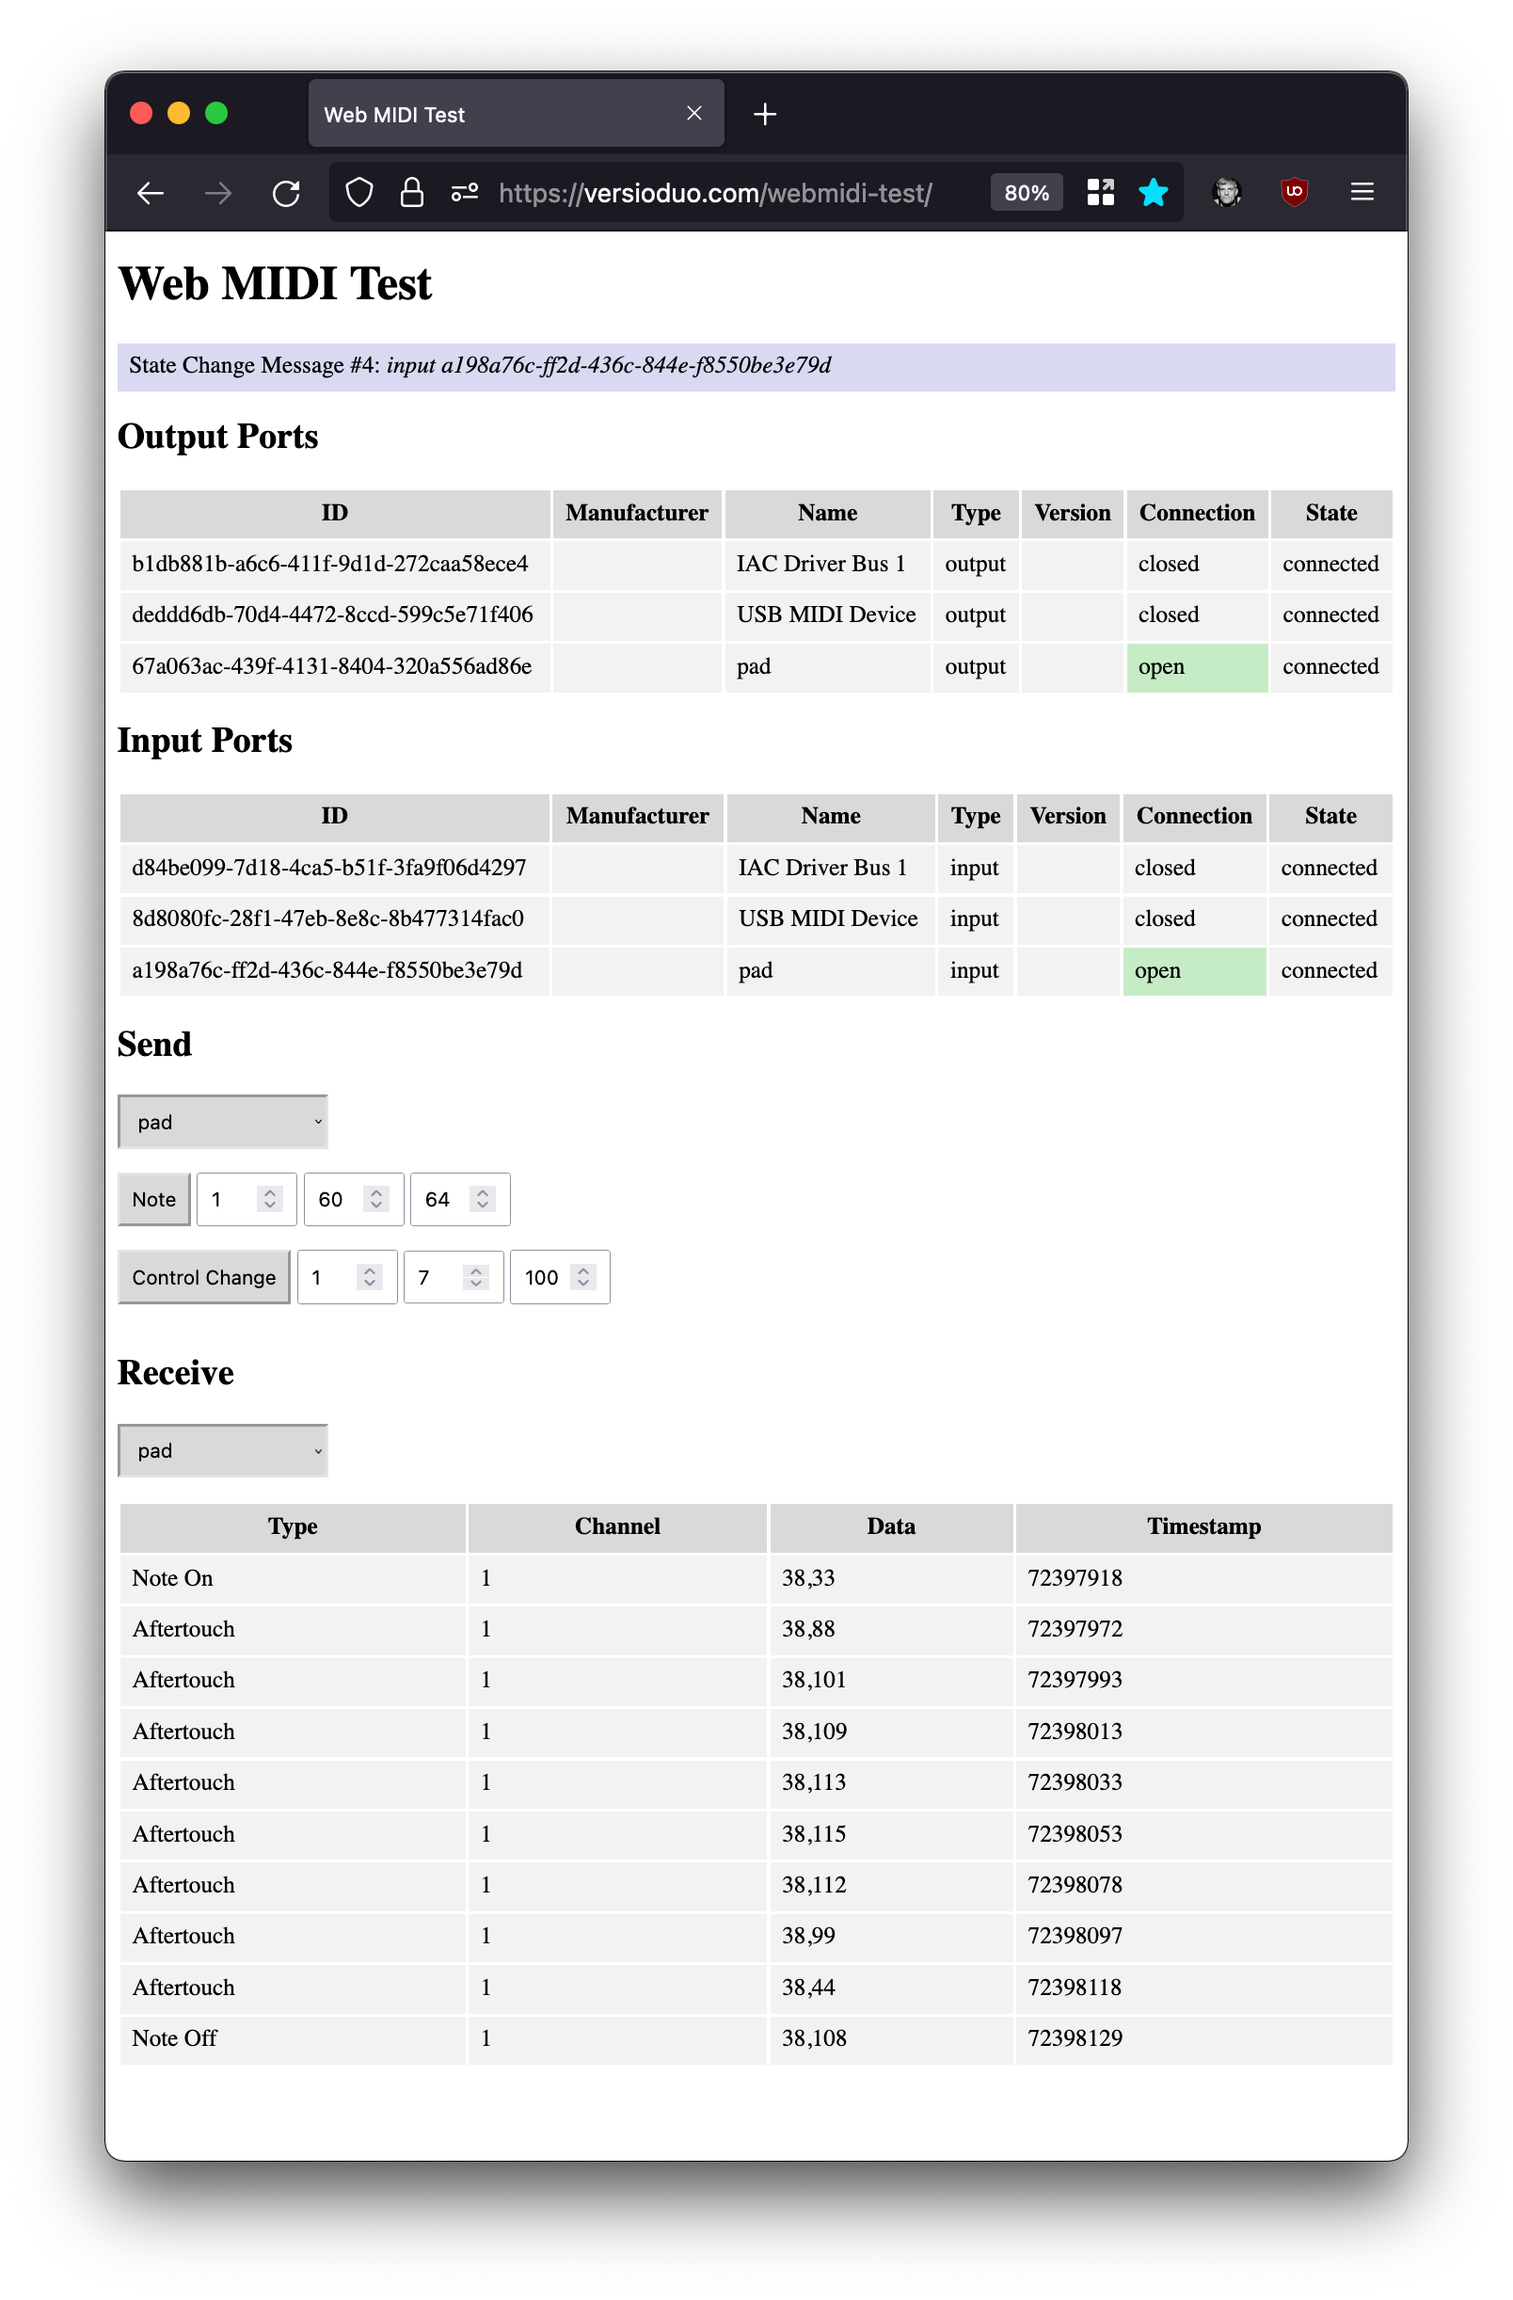
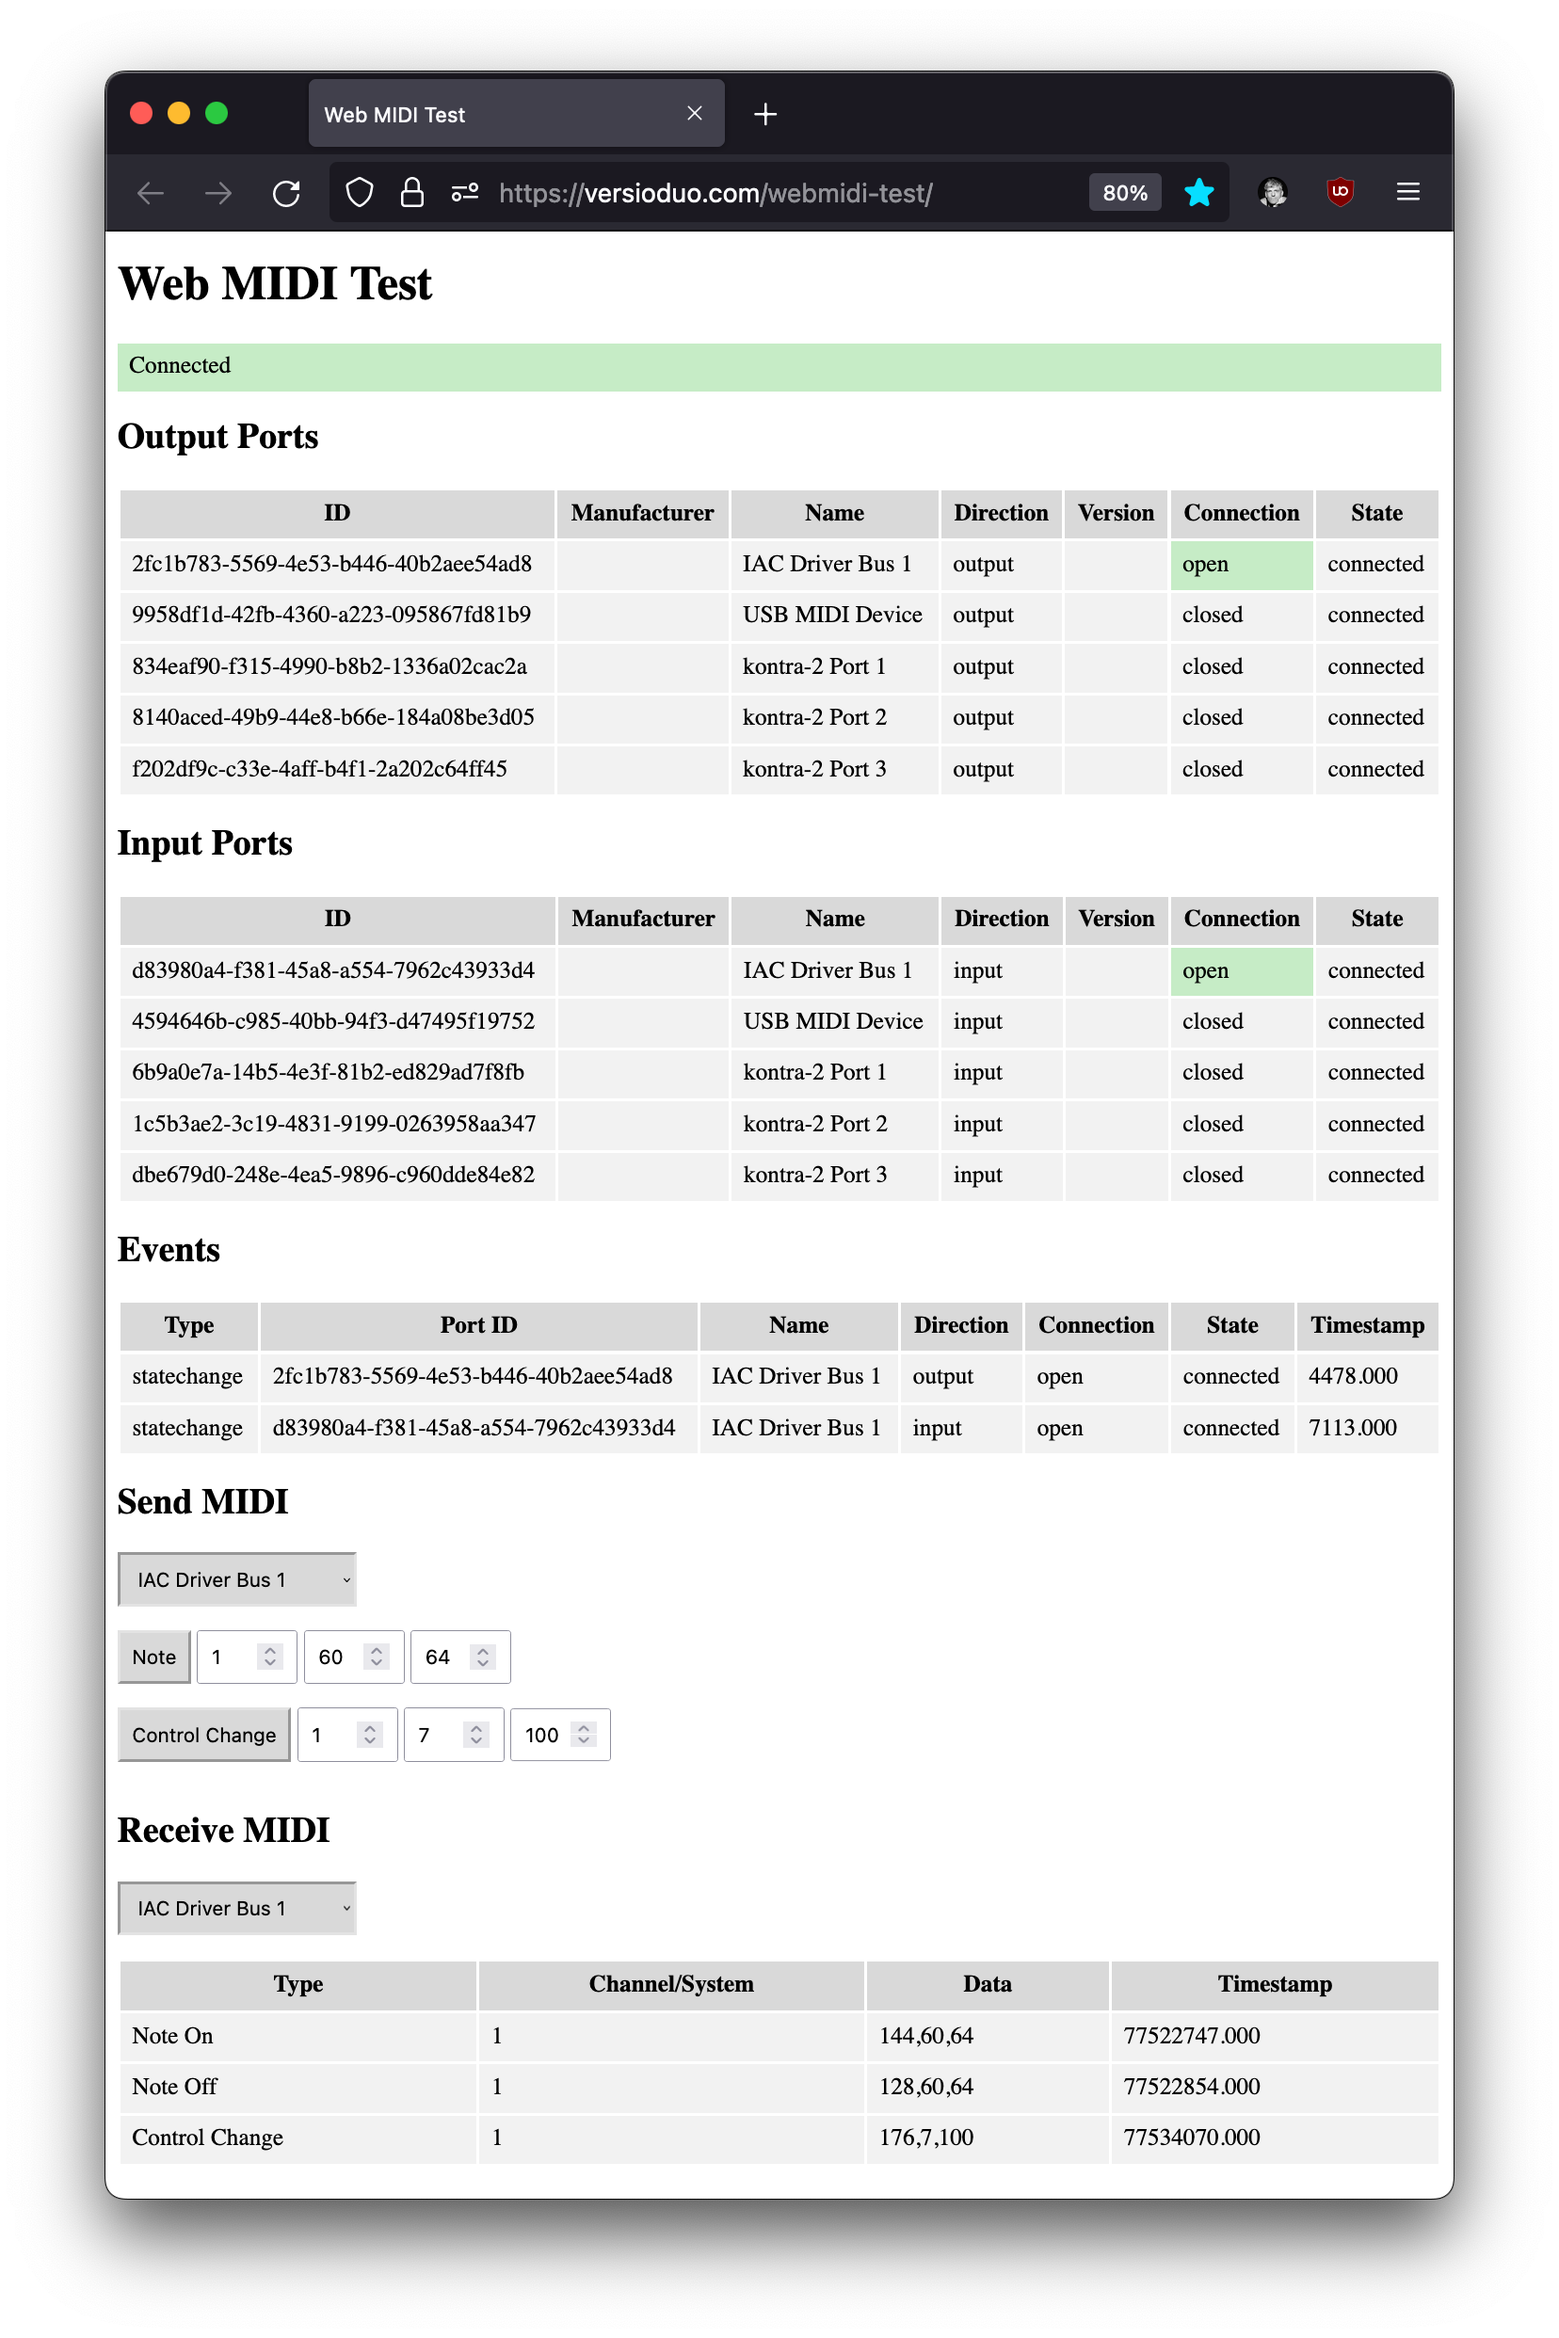
Add section to show multiple state change messages

Changed region(s): [[0.0622, 0.0311, 0.9328, 0.9329], [0.653, 0.0622, 0.7774, 0.0933], [0.8085, 0.0622, 0.8706, 0.0933]]

diff --git a/index.html b/index.html
@@ -7,7 +7,6 @@
   <title>Web MIDI Test</title>
   <style>
     .notify {
-      background-color: hsl(0, 0%, 85%);
       padding: 0.5rem;
     }
 
@@ -53,7 +52,7 @@
         <th>ID</th>
         <th>Manufacturer</th>
         <th>Name</th>
-        <th>Type</th>
+        <th>Direction</th>
         <th>Version</th>
         <th>Connection</th>
         <th>State</th>
@@ -71,7 +70,7 @@
         <th>ID</th>
         <th>Manufacturer</th>
         <th>Name</th>
-        <th>Type</th>
+        <th>Direction</th>
         <th>Version</th>
         <th>Connection</th>
         <th>State</th>
@@ -81,7 +80,23 @@
     </tbody>
   </table>
 
-  <h2>Send</h2>
+  <h2>Events</h2>
+  <table>
+    <thead>
+      <tr>
+        <th>Type</th>
+        <th>Port ID</th>
+        <th>Name</th>
+        <th>Direction</th>
+        <th>Connection</th>
+        <th>State</th>
+        <th>Timestamp</th>
+      </tr>
+    </thead>
+    <tbody id="events"></tbody>
+  </table>
+
+  <h2>Send MIDI</h2>
   <select id="send">
     <option>Select Device</option>
   </select>
@@ -98,7 +113,7 @@
     <input id="sendControlValue" type="number" value="100" max="127">
   </div>
 
-  <h2>Receive</h2>
+  <h2>Receive MIDI</h2>
   <select id="receive">
     <option>Select Device</option>
   </select>
@@ -116,9 +131,14 @@
   <script>
     'use strict';
 
+    // Notification area to show the connection and error messages.
     const notify = document.getElementById('notify');
+
+    // Log section showing state change messages.
+    const events = document.getElementById('events');
     let midi = null;
 
+    // Send and receive MIDI notes.
     const send = document.getElementById('send');
     let sendDevice = null;
 
@@ -126,6 +146,7 @@
     let receiveDevice = null;
     const receiveMessages = document.getElementById('receiveMessages');
 
+    // Disconnect a device and clear the received MIDI message log.
     const resetInput = () => {
       if (receiveDevice) {
         receiveDevice.onmidimessage = null;
@@ -137,6 +158,44 @@
         receiveMessages.firstChild.remove();
     }
 
+    // Add a state change message.
+    const showEvent = (event) => {
+      const row = document.createElement('tr');
+
+      const type = document.createElement('td');
+      type.innerText = event.type;
+      row.appendChild(type);
+
+      const id = document.createElement('td');
+      id.innerText = event.port.id;
+      row.appendChild(id);
+
+      const name = document.createElement('td');
+      name.innerText = event.port.name;
+      row.appendChild(name);
+
+      const direction = document.createElement('td');
+      direction.innerText = event.port.type;
+      row.appendChild(direction);
+
+      const connection = document.createElement('td');
+      connection.innerText = event.port.connection;
+      row.appendChild(connection);
+
+      const state = document.createElement('td');
+      state.innerText = event.port.state;
+      row.appendChild(state);
+
+      const time = document.createElement('td');
+      time.innerText = event.timeStamp.toFixed(3);
+      row.appendChild(time);
+
+      while (events.childElementCount > 10)
+        events.firstChild.remove();
+      events.appendChild(row);
+    }
+
+    // Update the device list selector.
     const updateSelect = (port, select, connection) => {
       const option = document.createElement('option');
       option.text = port.name;
@@ -145,6 +204,7 @@
       select.appendChild(option);
     }
 
+    // Print the properties of a MIDI port.
     const printPort = (port, list) => {
       const fields = ['id', 'manufacturer', 'name', 'type', 'version', 'connection', 'state'];
 
@@ -163,6 +223,7 @@
       list.appendChild(row);
     }
 
+    // Update the list of ports.
     const updateOutput = () => {
       const output = document.getElementById('output');
 
@@ -199,10 +260,11 @@
       }
     }
 
-    const showMessage = (message) => {
+    // Log a received MIDI message.
+    const showMIDIMessage = (message) => {
       const row = document.createElement('tr');
-      const type = document.createElement('td');
 
+      const type = document.createElement('td');
       let system = null;
       switch (message.data[0] & 0xf0) {
         case 0x80 | (0 << 4):
@@ -304,7 +366,7 @@
       row.appendChild(data);
 
       const time = document.createElement('td');
-      time.innerText = message.timeStamp;
+      time.innerText = message.timeStamp.toFixed(3);
       row.appendChild(time);
 
       while (receiveMessages.childElementCount > 20)
@@ -325,10 +387,7 @@
 
         let counter = 0;
         midi.onstatechange = (event) => {
-          counter++;
-          notify.innerHTML = 'State Change Message #' + counter + ': <i>' + event.port.type + ' ' + event.port.id + '</i>';
-          notify.style.backgroundColor = 'hsl(240, 50%, 90%)';
-
+          showEvent(event);
           updateInput();
           updateOutput();
         }
@@ -358,7 +417,7 @@
 
           receiveDevice = port;
           port.onmidimessage = (message) => {
-            showMessage(message);
+            showMIDIMessage(message);
           };
         });
 
